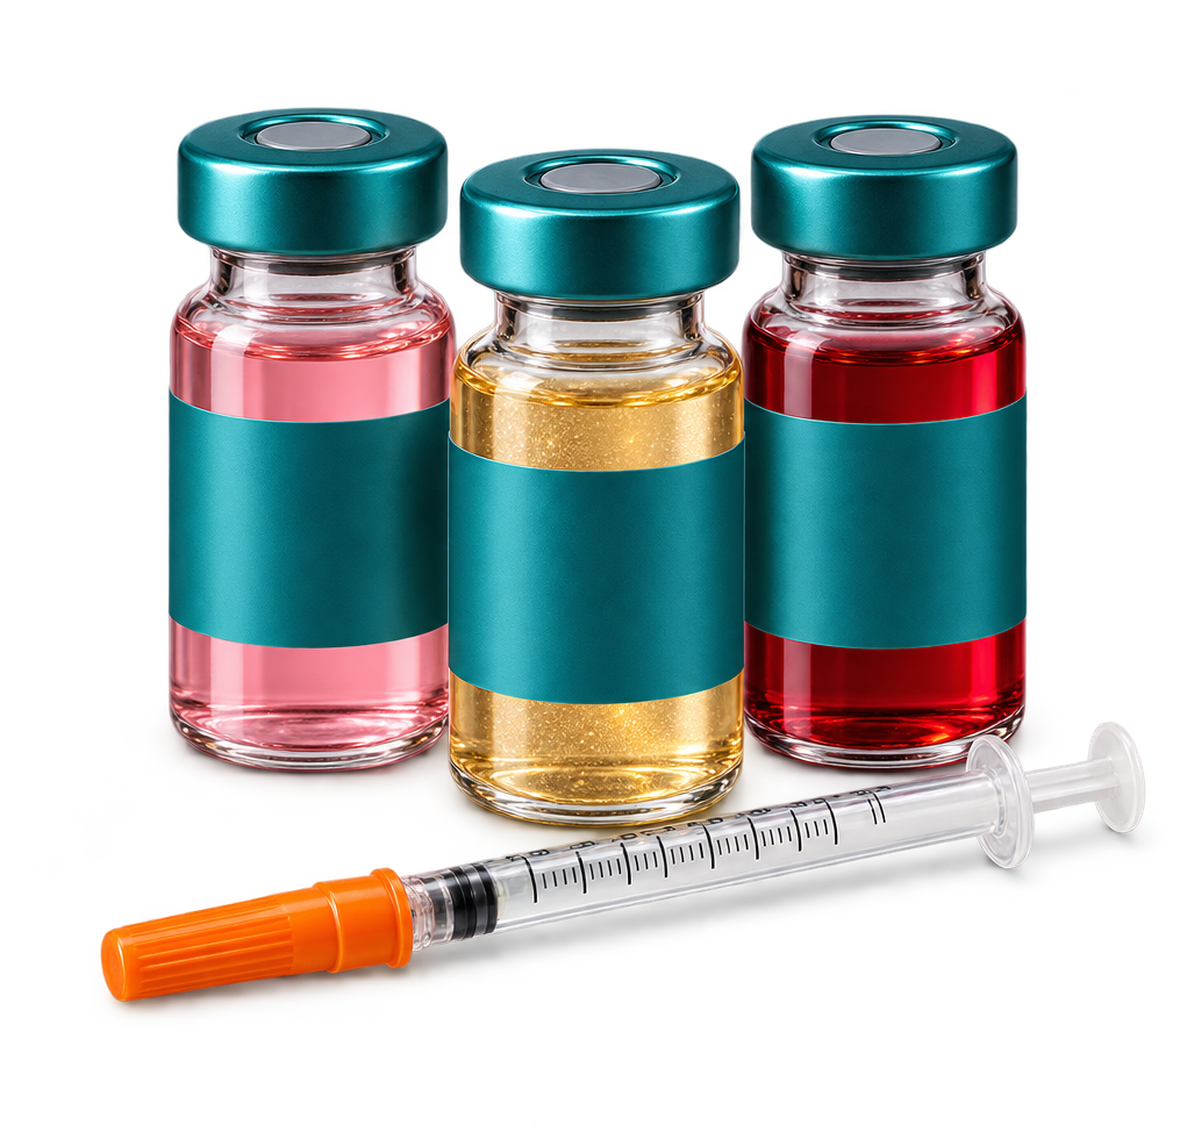
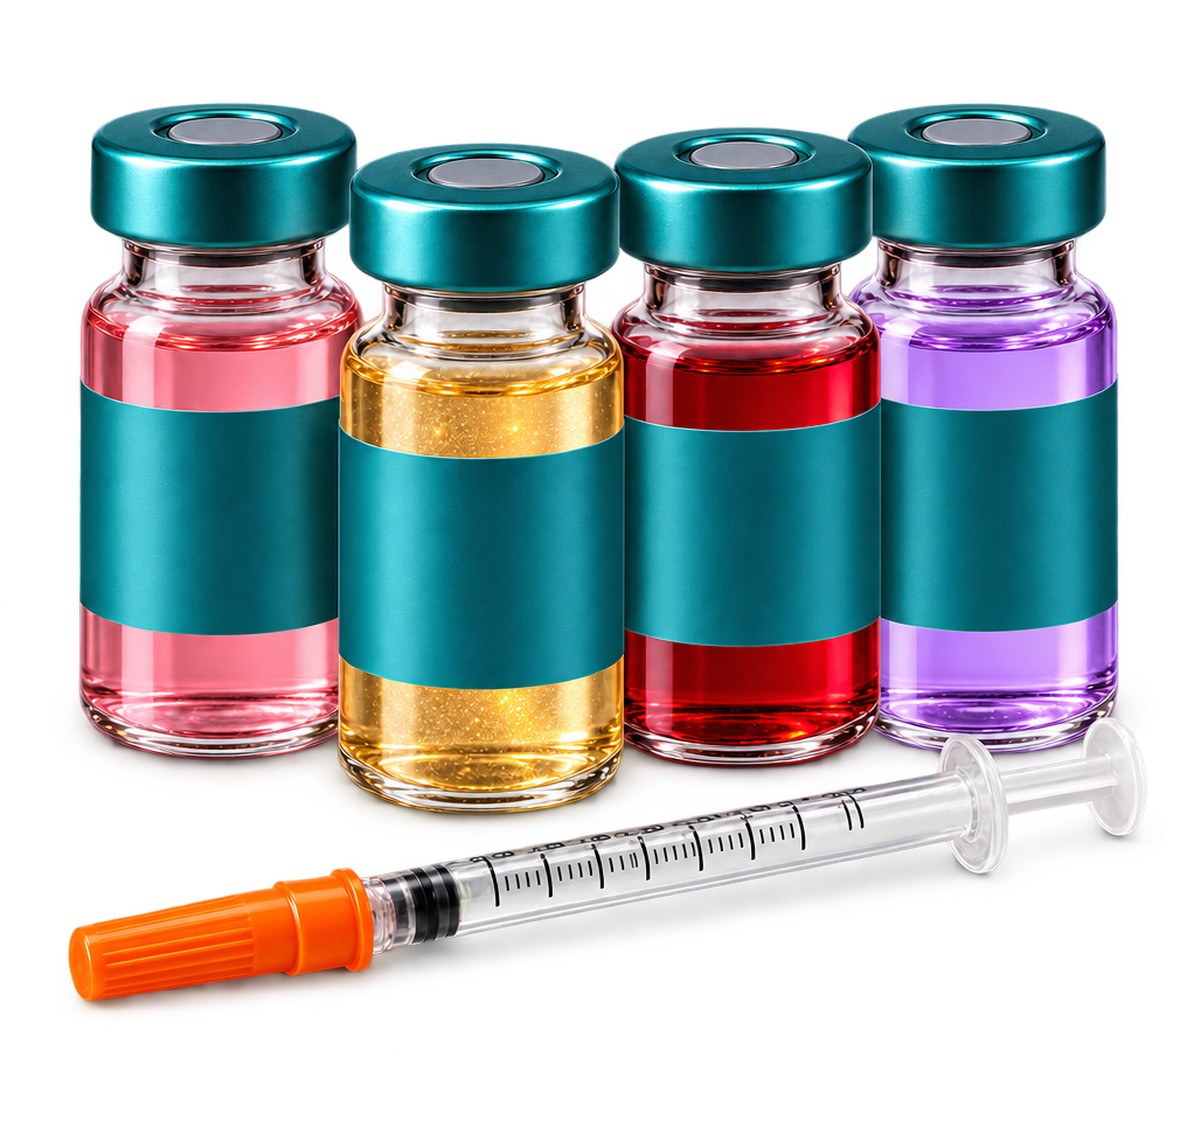
BF2026 keller store preview

diff --git a/keller/black-friday-2026/index.html b/keller/black-friday-2026/index.html
@@ -295,9 +295,9 @@ footer .md{margin-top:18px;font-size:12px;color:#7a8896}
   <article class="card rv" id="sh-beauty" style="--c1:#ff8fc1;--c2:#ffd36b;--tb:#ffe8f3;--tc:#8a1050">
    <span class="tag">Beauty</span>
    <h3>Beauty Shots</h3>
-   <p class="inc">Biotin · IM Glowing · B12</p>
+   <p class="inc">Biotin · IM Glowing · B12 · IM Detox</p>
    <div class="art"><img src="https://betterbranding.github.io/dripbar-pages/assets/bf2026/shot-beauty.webp" alt="Beauty Shots" loading="lazy" width="900" height="780"></div>
-   <div class="price-row"><span class="price">$100</span><span class="was">$150</span><span class="save">Save $50</span></div>
+   <div class="price-row"><span class="price">$100</span><span class="was">$200</span><span class="save">Save $100</span></div>
    <a class="buy" href="#" data-pending="Checkout opens when the Black Friday bundles go live.">Buy Now</a>
   </article>
   <article class="card rv" id="sh-skinny" style="--c1:#c6f03c;--c2:#4fd6ff;--tb:#effbd0;--tc:#3f5200">
